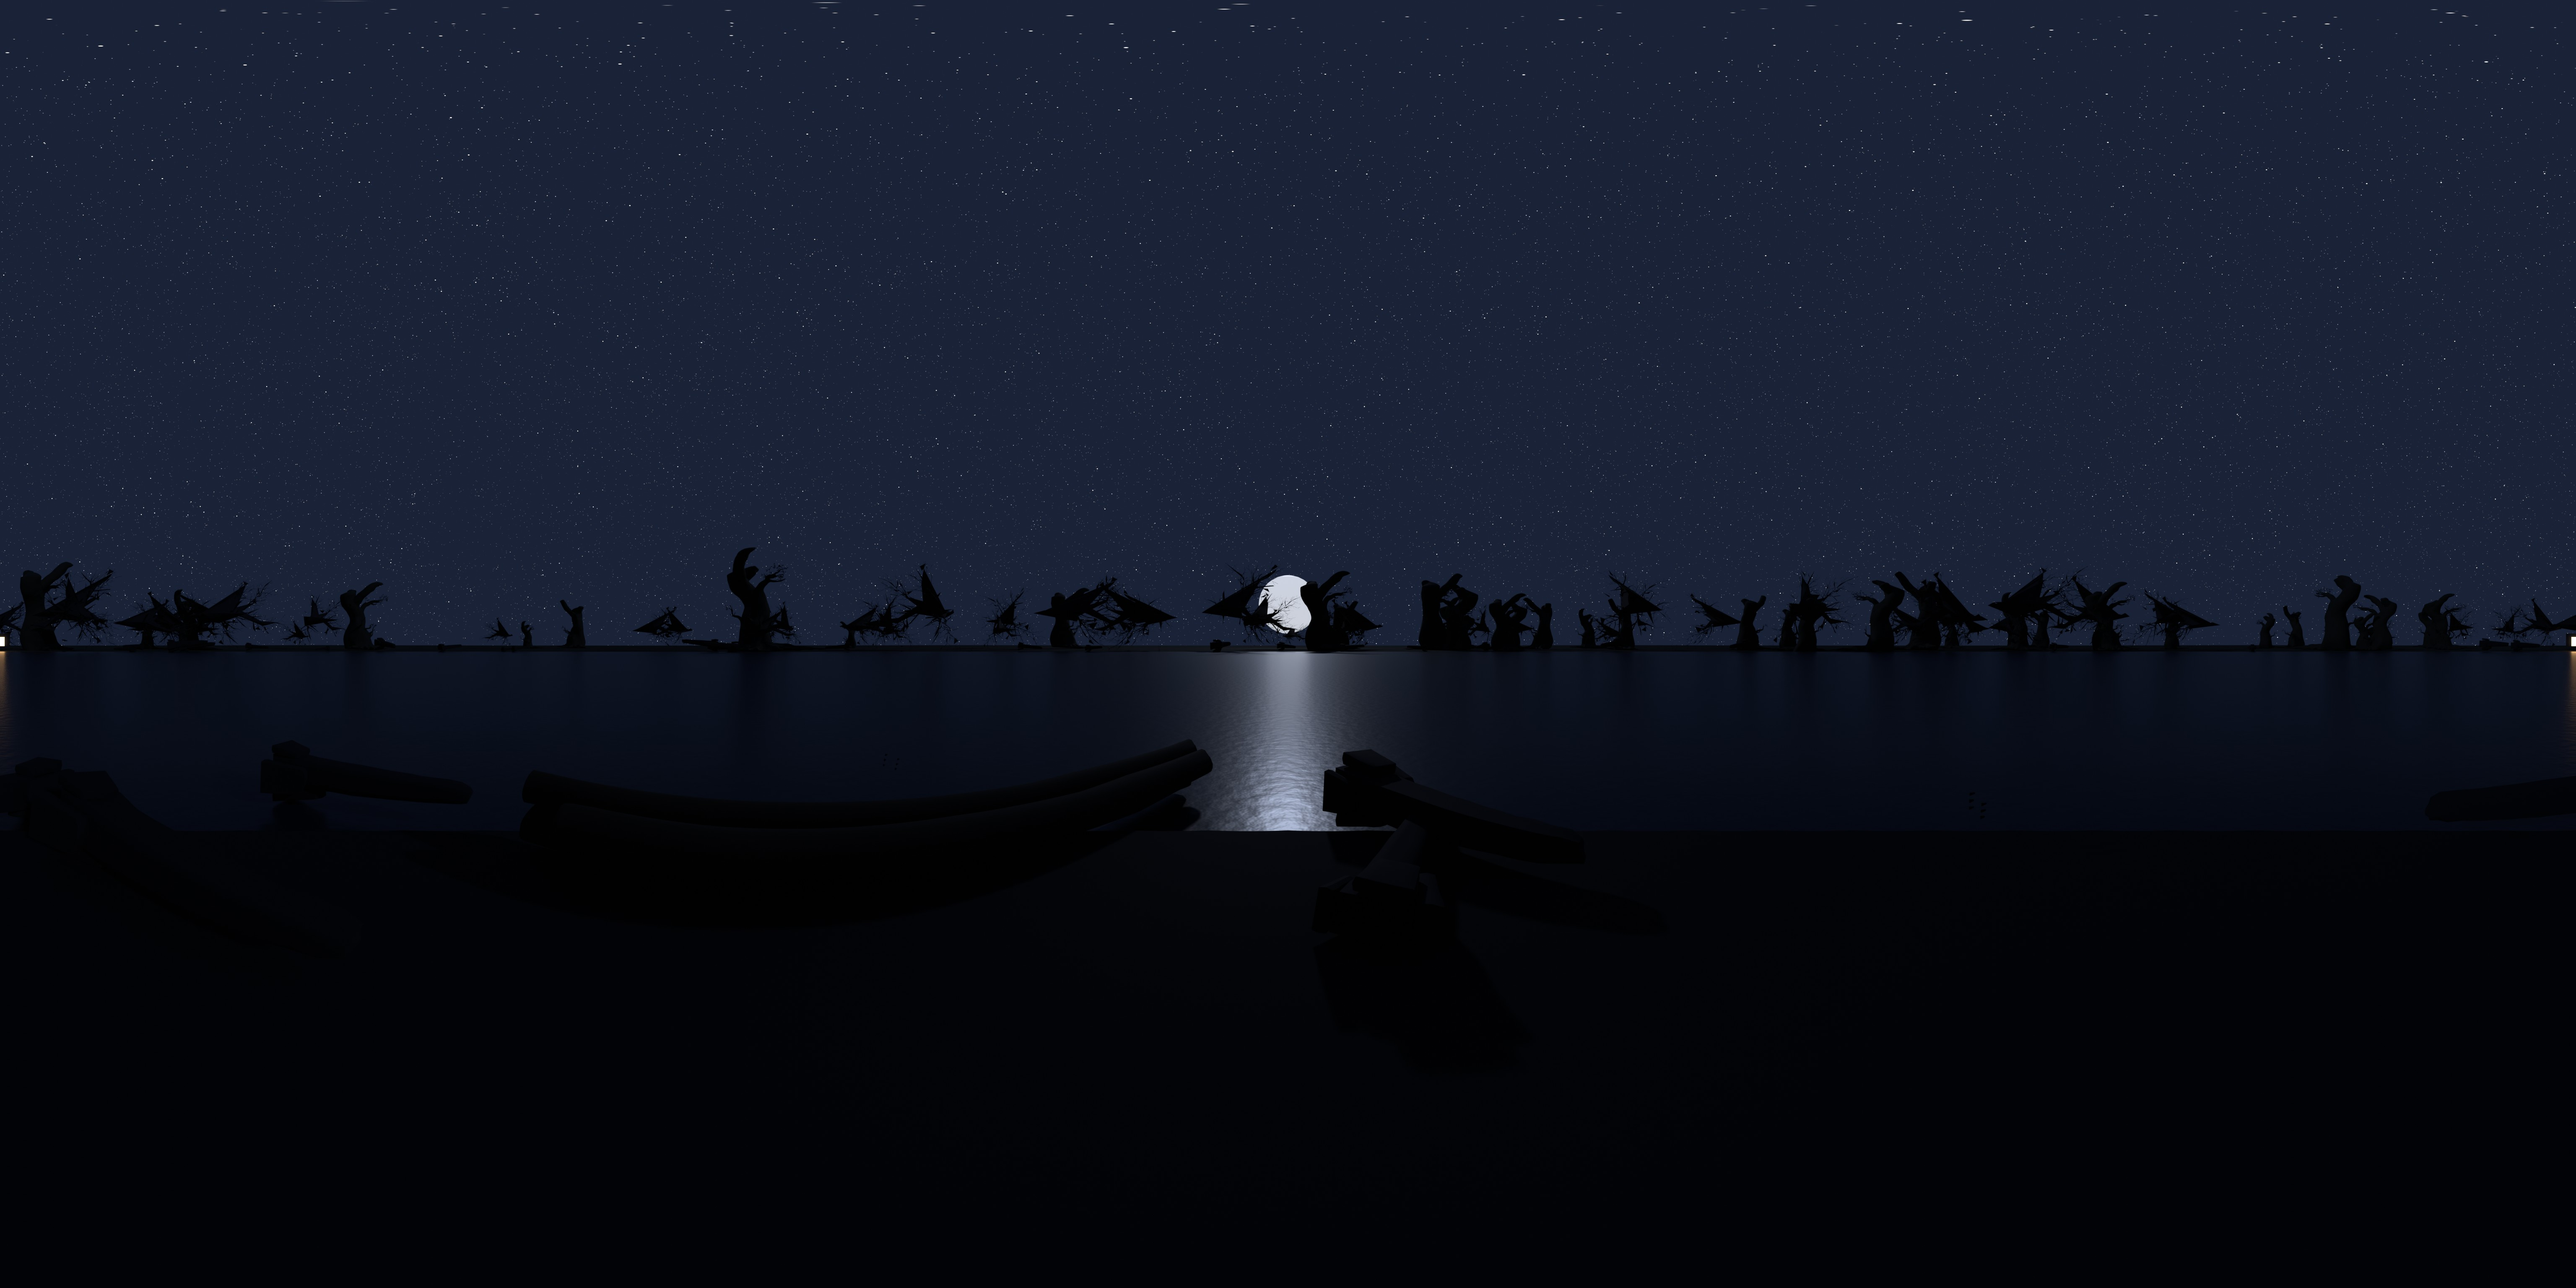
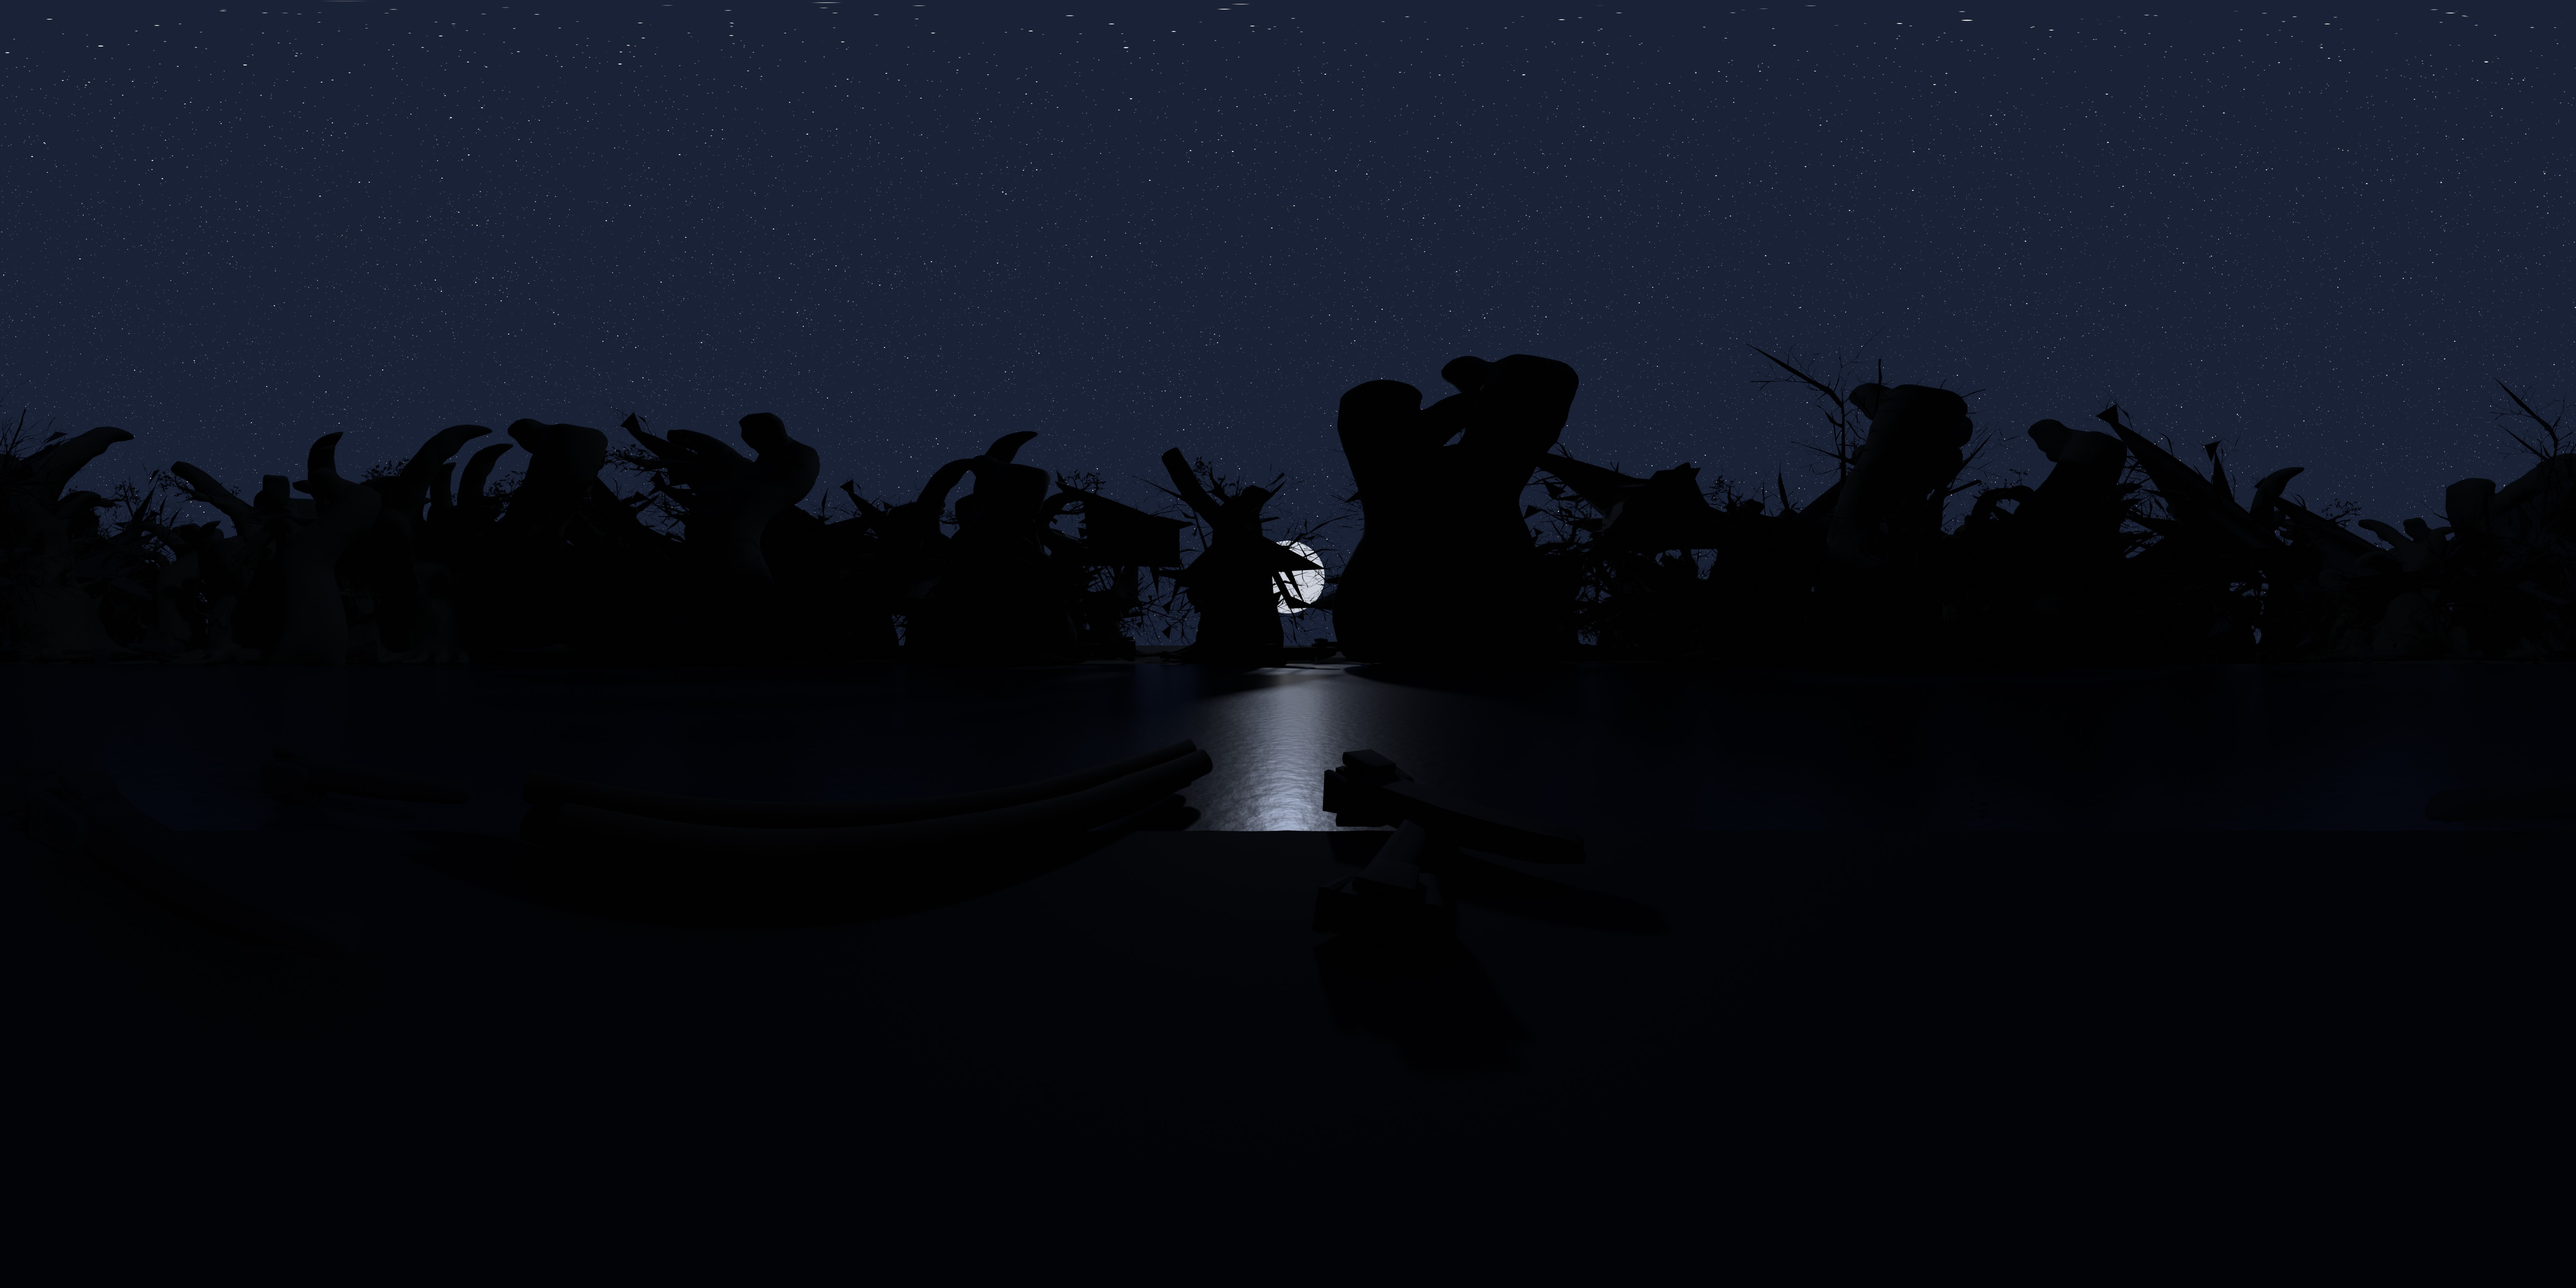
feat(cabin): intimate forest lake + stone-skipping + fly into the artist universe
- outdoor scene reworked: a small lake nestled in a much denser, deeper forest
  with the moon shining through a clearing over the water; re-rendered
  cabin-outside360.jpg (6K) + still
- tap the lake surface to skip a stone — it bounces across the water with
  ripples, a tick per skip and a splash, and a score (aim flatter for more skips)
- a star-sky marker "19,000人のアーティストの宇宙へ" tilts up and zooms into the
  stars, then flies to salon.html (the restored music universe)

Changed region(s): [[0.0, 0.25, 1.0, 0.5625]]

diff --git a/cabin.html b/cabin.html
@@ -638,6 +638,14 @@ body.immersed #room{touch-action:none}
     linear-gradient(180deg, rgba(8,6,10,.34) 0%, transparent 22%, transparent 60%, rgba(5,4,8,.62) 100%)}
 body.room-ready #roomScrim{opacity:1}
 #sceneFade{position:fixed;inset:0;z-index:40;pointer-events:none;background:#05040a;opacity:0;transition:opacity .5s ease}
+#skipScore{position:fixed;left:50%;bottom:92px;transform:translateX(-50%);z-index:8;pointer-events:none;
+  font-family:"Shippori Mincho",serif;font-size:17px;color:var(--lantern-soft);letter-spacing:.04em;
+  text-shadow:0 1px 9px rgba(0,0,0,.85);opacity:0;transition:opacity .5s ease;white-space:nowrap;text-align:center}
+#skipScore.show{opacity:.9}
+#skipScore .u{font-size:13px;opacity:.85}
+#skipScore .b{font-size:12px;opacity:.6;margin-left:8px}
+#skipScore.flash{animation:skipPop .55s ease}
+@keyframes skipPop{0%{transform:translateX(-50%) scale(.7);opacity:0}40%{transform:translateX(-50%) scale(1.14);opacity:1}100%{transform:translateX(-50%) scale(1);opacity:.9}}
 
 /* lift existing chrome above the fixed room; hero becomes a window onto it */
 .bar{z-index:50}
@@ -844,6 +852,7 @@ body.immersed-med #npCredit{opacity:.3}
 <div id="roomFallback" aria-hidden="true"></div>
 <div id="roomScrim" aria-hidden="true"></div>
 <div id="sceneFade" aria-hidden="true"></div>
+<div id="skipScore" aria-hidden="true"></div>
 
 <!-- center reticle (gaze target) -->
 <div id="reticle" aria-hidden="true"><span></span></div>
@@ -1777,6 +1786,7 @@ const MARKERS = [
 // out by the lake under the stars
 const MARKERS_OUT = [
   { key:'meditate', lon:0,   lat:-9,  r:5.5, jp:'湖畔で星を見て瞑想する', en:'meditate under the stars' },
+  { key:'universe', lon:0,   lat:50,  r:7,   jp:'19,000人のアーティストの宇宙へ', en:'into the universe of 19,000 artists' },
   { key:'inside',   lon:180, lat:-2,  r:6,   jp:'小屋に戻る',            en:'back inside' },
 ];
 
@@ -1967,6 +1977,7 @@ else {
       ray.setFromCamera({x:nx,y:ny}, camera);
       const hit=ray.intersectObjects(markerGroup.children,false)[0];
       if(hit && hit.object.userData) window.onMarker && window.onMarker(hit.object.userData.key);
+      else if(_outside && ray.ray.direction.y < -0.05) skipStone();   // tap the lake → skip a stone
       else if(hovered) window.onMarker && window.onMarker(hovered.userData.key);
     }
   }
@@ -1983,7 +1994,7 @@ else {
   let breath=1, bt=1;
 
   // ── indoor ⇄ outdoor (step out to the starlit lake) ──
-  let _outside=false;
+  let _outside=false, _flying=false;
   const _fadeEl=document.getElementById('sceneFade');
   function _fade(toBlack,dur){ if(_fadeEl){ _fadeEl.style.transition='opacity '+dur+'ms ease'; _fadeEl.style.opacity=toBlack?'1':'0'; } }
   function _enterOutside(){
@@ -1991,14 +2002,14 @@ else {
     if(markerGroup.children.indexOf(sudokuBoard)>=0) markerGroup.remove(sudokuBoard);
     _tableBase.visible=false; fire.visible=glow.visible=embers.visible=false;
     tLon=lon=HEARTH_LON; tLat=lat=-4; idle=0;
-    document.body.classList.add('outside'); _fade(false,750);
+    document.body.classList.add('outside'); if(window.__skipHud) window.__skipHud(true); _fade(false,750);
   }
   function _enterInside(){
     buildMarkers(MARKERS);
     if(markerGroup.children.indexOf(sudokuBoard)<0) markerGroup.add(sudokuBoard);
     _tableBase.visible=true; fire.visible=glow.visible=embers.visible=true;
     tLon=lon=HEARTH_LON; tLat=lat=-7; idle=0;
-    document.body.classList.remove('outside'); _fade(false,750);
+    document.body.classList.remove('outside'); if(window.__skipHud) window.__skipHud(false); _fade(false,750);
   }
   window.CabinRoom = {
     setBreath:b=>{ bt=b; },
@@ -2026,10 +2037,69 @@ else {
         else loadSky('assets/cabin360.jpg', t=>{ insideTex=t; _enterInside(); });
       },540);
     },
+    flyToUniverse(){
+      if(_flying) return; _flying=true;
+      tLat=72;   // tilt up into the star field (smoothly, in the animate loop)
+      const f0=fov; let k=0;
+      const iv=setInterval(()=>{ k=Math.min(1,k+0.022); setFov(f0-(f0-12)*k); if(k>=1) clearInterval(iv); }, 16);
+      setTimeout(()=>_fade(true,820), 680);
+      setTimeout(()=>{ window.location.href='salon.html'; }, 1560);
+    },
     _set:(l,la)=>{ tLon=lon=l; tLat=lat=(la===undefined?lat:la); },
     _fireVis:v=>{ fire.visible=v; glow.visible=v; embers.visible=v; }
   };
   drawReadout('','');
+
+  // ── water-skipping mini-game (outside: tap the lake surface) ──
+  const WATER_Y = -2.6;
+  const _rippleTex = (()=>{ const c=document.createElement('canvas'); c.width=c.height=128; const x=c.getContext('2d'); x.translate(64,64);
+    for(let i=0;i<2;i++){ x.beginPath(); x.arc(0,0,38-i*9,0,6.283); x.lineWidth=5-i*2; x.strokeStyle='rgba(205,228,255,'+(0.5-i*0.2)+')'; x.stroke(); }
+    return new THREE.CanvasTexture(c); })();
+  const ripples=[];
+  function spawnRipple(pos, size){
+    const m=new THREE.Mesh(new THREE.PlaneGeometry(1,1), new THREE.MeshBasicMaterial({ map:_rippleTex, transparent:true, depthWrite:false, blending:THREE.AdditiveBlending, opacity:0.6 }));
+    m.rotation.x=-Math.PI/2; m.position.copy(pos); m.scale.setScalar(0.15); m.renderOrder=2; scene.add(m);
+    ripples.push({ mesh:m, t:0, life:1.4, size:size||1 });
+  }
+  const stoneMesh=new THREE.Mesh(new THREE.SphereGeometry(0.06,8,6), new THREE.MeshBasicMaterial({ color:0x15151a }));
+  stoneMesh.visible=false; scene.add(stoneMesh);
+  let stoneFlight=null, skipBest=0;
+  function skipStone(){
+    if(stoneFlight) return;
+    const dir=new THREE.Vector3(); camera.getWorldDirection(dir); dir.y=0;
+    if(dir.lengthSq()<1e-4) dir.set(0,0,1); dir.normalize();
+    // a flatter view (looking out across the water) throws farther → more skips
+    const skips=Math.max(1, Math.min(9, Math.round(8 + (lat+3)*0.16 + (Math.random()-0.35)*1.6)));
+    const pts=[]; let d=1.4, gap=1.7;
+    for(let i=0;i<=skips;i++){ const p=dir.clone().multiplyScalar(Math.min(d,10.5)); p.y=WATER_Y; pts.push(p); d+=gap; gap*=0.9; }
+    stoneFlight={ pts, seg:0, segT:0, segDur:0.22, hopH:0.5 };
+    stoneMesh.visible=true; stoneMesh.position.copy(pts[0]);
+    if(skips>skipBest) skipBest=skips;
+    if(window.__skipScore) window.__skipScore(skips, skipBest);
+  }
+  function updateSkip(dt){
+    if(stoneFlight){
+      const sf=stoneFlight; sf.segT+=dt;
+      const f=Math.min(1, sf.segT/sf.segDur);
+      const a=sf.pts[sf.seg], b=sf.pts[sf.seg+1];
+      const pos=a.clone().lerp(b,f); pos.y += Math.sin(f*Math.PI)*sf.hopH;
+      stoneMesh.position.copy(pos);
+      if(f>=1){
+        spawnRipple(b, 1.0 - sf.seg*0.07);
+        if(window.__waterTick) window.__waterTick(sf.seg, false);
+        sf.seg++;
+        if(sf.seg >= sf.pts.length-1){
+          spawnRipple(sf.pts[sf.pts.length-1], 1.5);
+          if(window.__waterTick) window.__waterTick(sf.seg, true);
+          stoneMesh.visible=false; stoneFlight=null;
+        } else { sf.segT=0; sf.hopH=Math.max(0.13, sf.hopH*0.72); sf.segDur=Math.max(0.11, sf.segDur*0.93); }
+      }
+    }
+    for(let i=ripples.length-1;i>=0;i--){ const r=ripples[i]; r.t+=dt; const f=r.t/r.life;
+      r.mesh.scale.setScalar((0.2+f*2.6)*r.size); r.mesh.material.opacity=Math.max(0,1-f)*0.6;
+      if(f>=1){ scene.remove(r.mesh); r.mesh.geometry.dispose(); r.mesh.material.dispose(); ripples.splice(i,1); }
+    }
+  }
 
   addEventListener('resize', ()=>{ camera.aspect=innerWidth/innerHeight; camera.updateProjectionMatrix(); renderer.setSize(innerWidth,innerHeight); });
 
@@ -2038,6 +2108,7 @@ else {
     requestAnimationFrame(animate);
     const dt=Math.min(clock.getDelta(),.05), t=clock.elapsedTime;
     fireUniforms.uTime.value=t;
+    updateSkip(dt);
 
     if(!dragging && !reduce && !meditating){ idle+=dt; if(idle>6) tLon+=dt*0.5; }
     lon+=(tLon-lon)*0.08; lat+=(tLat-lat)*0.08;
@@ -2210,6 +2281,7 @@ else {
     else if(key==='sudoku') window.location.href='sudoku.html?play=plane-table';
     else if(key==='outside'){ if(window.CabinRoom&&window.CabinRoom.goOutside) window.CabinRoom.goOutside(); }
     else if(key==='inside'){ if(window.CabinRoom&&window.CabinRoom.goInside) window.CabinRoom.goInside(); }
+    else if(key==='universe'){ if(window.CabinRoom&&window.CabinRoom.flyToUniverse) window.CabinRoom.flyToUniverse(); }
   };
 
   // swap ambience when stepping out / back in: hush the hearth, bring in the night forest
@@ -2226,6 +2298,36 @@ else {
         if(_autoForest && forBtn && forBtn.classList.contains('on')){ toggleSound('forest', forBtn); }
         _autoForest=false;
         if(_fireWasOn && fireBtn && !fireBtn.classList.contains('on')) toggleSound('fire', fireBtn);
+      }
+    }catch(_){}
+  };
+
+  // ── water-skip: score readout + skip/splash sounds ──
+  window.__skipHud=function(show){
+    const el=document.getElementById('skipScore'); if(!el) return;
+    if(show){ el.textContent='水面をタップして石を投げよう'; el.classList.remove('flash'); el.classList.add('show'); }
+    else el.classList.remove('show','flash');
+  };
+  window.__skipScore=function(n, best){
+    const el=document.getElementById('skipScore'); if(!el) return;
+    el.innerHTML = n + ' <span class="u">回スキップ！</span>' + (best? ' <span class="b">最高 '+best+'回</span>':'');
+    el.classList.add('show'); el.classList.remove('flash'); void el.offsetWidth; el.classList.add('flash');
+  };
+  window.__waterTick=function(seg, last){
+    try{
+      const ctx=ensureCtx(); if(!ctx) return; const t0=ctx.currentTime;
+      if(last){
+        const dur=0.5, buf=ctx.createBuffer(1, Math.floor(ctx.sampleRate*dur), ctx.sampleRate), d=buf.getChannelData(0);
+        for(let i=0;i<d.length;i++){ const e=1-i/d.length; d[i]=(Math.random()*2-1)*e*e; }
+        const src=ctx.createBufferSource(); src.buffer=buf;
+        const bp=ctx.createBiquadFilter(); bp.type='lowpass'; bp.frequency.value=820;
+        const g=ctx.createGain(); g.gain.value=0.16;
+        src.connect(bp).connect(g).connect(ctx.destination); src.start(t0);
+      } else {
+        const o=ctx.createOscillator(); o.type='sine';
+        o.frequency.setValueAtTime(430+seg*55, t0); o.frequency.exponentialRampToValueAtTime(230+seg*35, t0+0.08);
+        const g=ctx.createGain(); g.gain.setValueAtTime(0.0001,t0); g.gain.exponentialRampToValueAtTime(0.11,t0+0.005); g.gain.exponentialRampToValueAtTime(0.0001,t0+0.12);
+        o.connect(g).connect(ctx.destination); o.start(t0); o.stop(t0+0.14);
       }
     }catch(_){}
   };

diff --git a/_blender/cabin_outside_360.py b/_blender/cabin_outside_360.py
@@ -226,7 +226,7 @@ def place(data, loc, rotz, target_h, mat, jitter_tilt=0.0):
 bpy.ops.mesh.primitive_plane_add(size=800, location=(0, 0, -0.06))
 g = bpy.context.active_object; g.name = 'Ground'; g.data.materials.append(MAT['ground'])
 
-bpy.ops.mesh.primitive_circle_add(radius=78, fill_type='NGON', location=(0, 0, 0.0))
+bpy.ops.mesh.primitive_circle_add(radius=30, fill_type='NGON', location=(0, 0, 0.0))
 lake = bpy.context.active_object; lake.name = 'Lake'; lake.data.materials.append(MAT['water'])
 
 # ---- the small rock you step out onto, ringed by the lake ----
@@ -241,33 +241,37 @@ if rock_datas:
 if log_datas:
     place(random.choice(log_datas), (-1.5, 1.6, 0.12), 1.3, 0.5, None, 0.05)  # a log to sit on
 
-# ---- the deep forest ringing the lake (silhouettes on the far shore) ----
+# ---- the deep, dense forest pressing right up to the small lake ----
 trees = [d for d in (tree_data, eci_tree_data) if d]
 if trees:
-    for i in range(90):
-        a = random.uniform(0, math.tau); r = random.uniform(80, 150)
-        h = random.uniform(10, 22) * (1.0 - 0.2*random.random())
+    for i in range(420):
+        a = random.uniform(0, math.tau)
+        # leave a clearing toward the moon (+Y, a≈pi/2) so it shines over the water
+        diff = (a - math.pi/2 + math.pi) % math.tau - math.pi
+        if abs(diff) < 0.34 and random.random() < 0.82: continue
+        r = 31 + (random.random()**1.4) * 84      # biased toward the near shore = enclosing
+        h = random.uniform(11, 25) * (1.0 - 0.16*random.random())
         place(random.choice(trees), (math.cos(a)*r, math.sin(a)*r, 0.0),
-              random.uniform(0, math.tau), h, None, 0.05)
+              random.uniform(0, math.tau), h, None, 0.06)
 
-# ---- shoreline rocks where the water meets the far forest ----
+# ---- shoreline rocks where the water meets the dense forest ----
 if rock_datas:
-    for i in range(40):
-        a = i/40*math.tau; r = random.uniform(76, 80)
+    for i in range(34):
+        a = i/34*math.tau; r = random.uniform(28.5, 31.5)
         place(random.choice(rock_datas), (math.cos(a)*r, math.sin(a)*r, 0.0),
-              random.uniform(0, math.tau), random.uniform(1.0, 2.6), None, 0.1)
+              random.uniform(0, math.tau), random.uniform(0.8, 2.0), None, 0.1)
 
-# ---- the cabin you came from: a warm window glow on the far shore (-Y) ----
-bpy.ops.mesh.primitive_plane_add(size=2.0, location=(0, -92, 2.0), rotation=(math.radians(90), 0, 0))
+# ---- the cabin you came from: a warm window glow tucked in the trees (-Y) ----
+bpy.ops.mesh.primitive_plane_add(size=1.6, location=(0, -33, 1.8), rotation=(math.radians(90), 0, 0))
 win = bpy.context.active_object; win.name = 'CabinWindow'; win.data.materials.append(MAT['window'])
-bpy.ops.mesh.primitive_cube_add(size=1, location=(0, -94, 2.4)); cb = bpy.context.active_object
-cb.scale = (4.5, 3.2, 2.8); cb.data.materials.append(MAT['tree'])
+bpy.ops.mesh.primitive_cube_add(size=1, location=(0, -34, 2.2)); cb = bpy.context.active_object
+cb.scale = (3.6, 2.8, 2.6); cb.data.materials.append(MAT['tree'])
 
-# ---- the moon, low and large over the far tree line (+Y), mirrored in the lake ----
-bpy.ops.mesh.primitive_uv_sphere_add(radius=6.0, location=(0, 140, 15))
+# ---- the moon, low over the clearing (+Y), mirrored in the small lake ----
+bpy.ops.mesh.primitive_uv_sphere_add(radius=3.0, location=(0, 58, 11))
 moon = bpy.context.active_object; moon.name = 'Moon'; moon.data.materials.append(MAT['moon'])
 for p in moon.data.polygons: p.use_smooth = True
-bpy.ops.mesh.primitive_uv_sphere_add(radius=10.0, location=(0, 140, 15))
+bpy.ops.mesh.primitive_uv_sphere_add(radius=5.2, location=(0, 58, 11))
 halo = bpy.context.active_object; halo.name = 'MoonHalo'; halo.data.materials.append(make_emissive('m_halo', (0.85, 0.9, 1.0), 0.7))
 for p in halo.data.polygons: p.use_smooth = True
 
